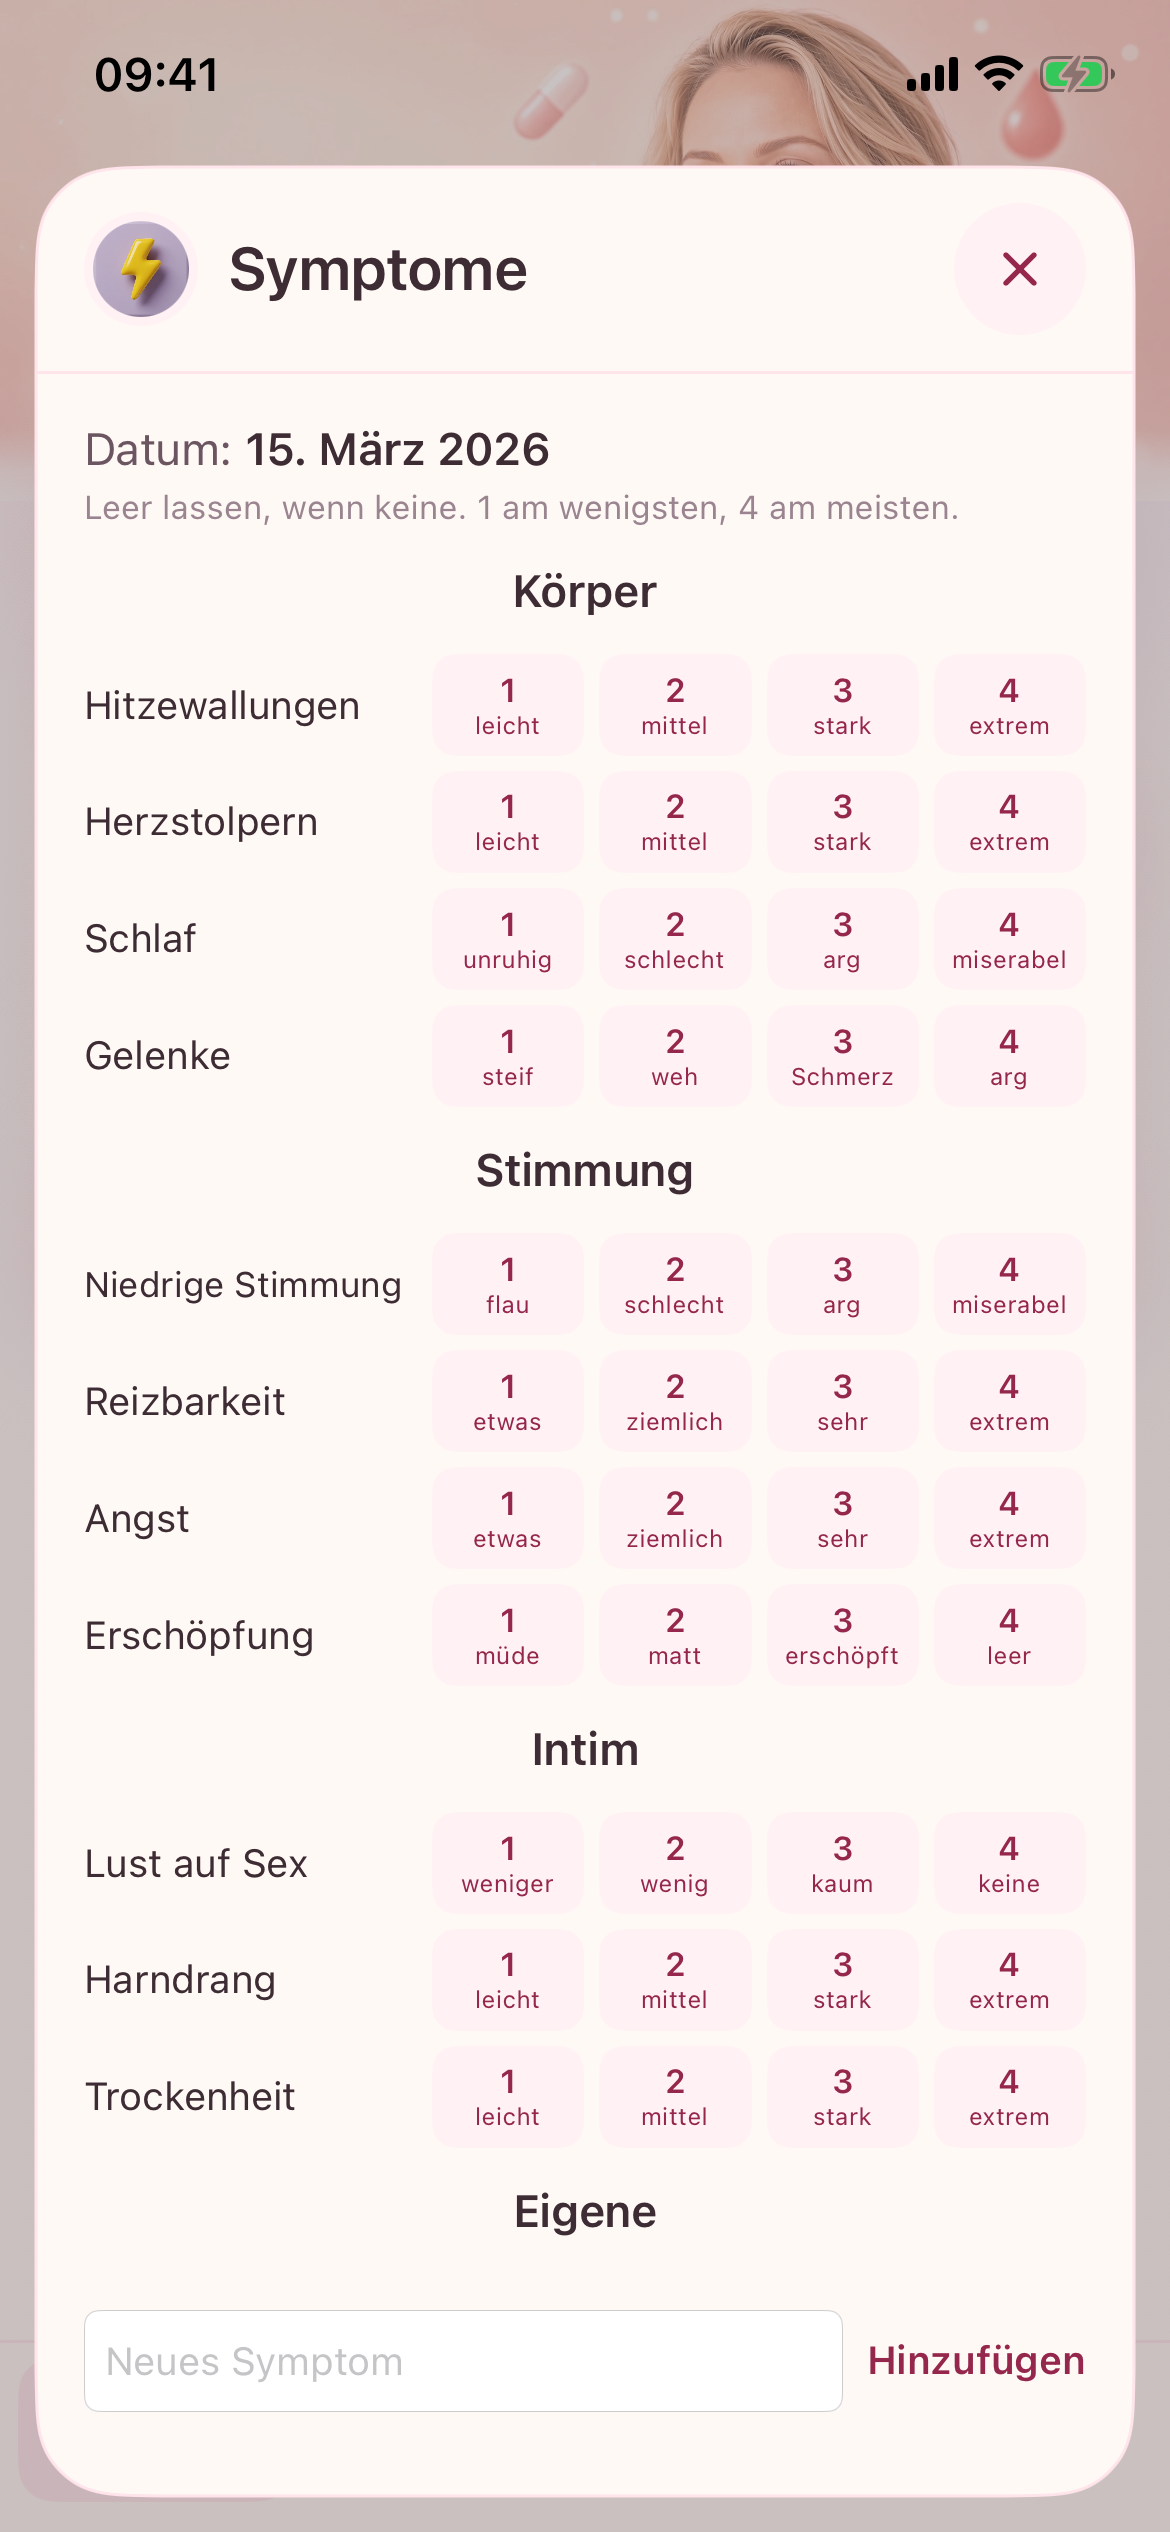
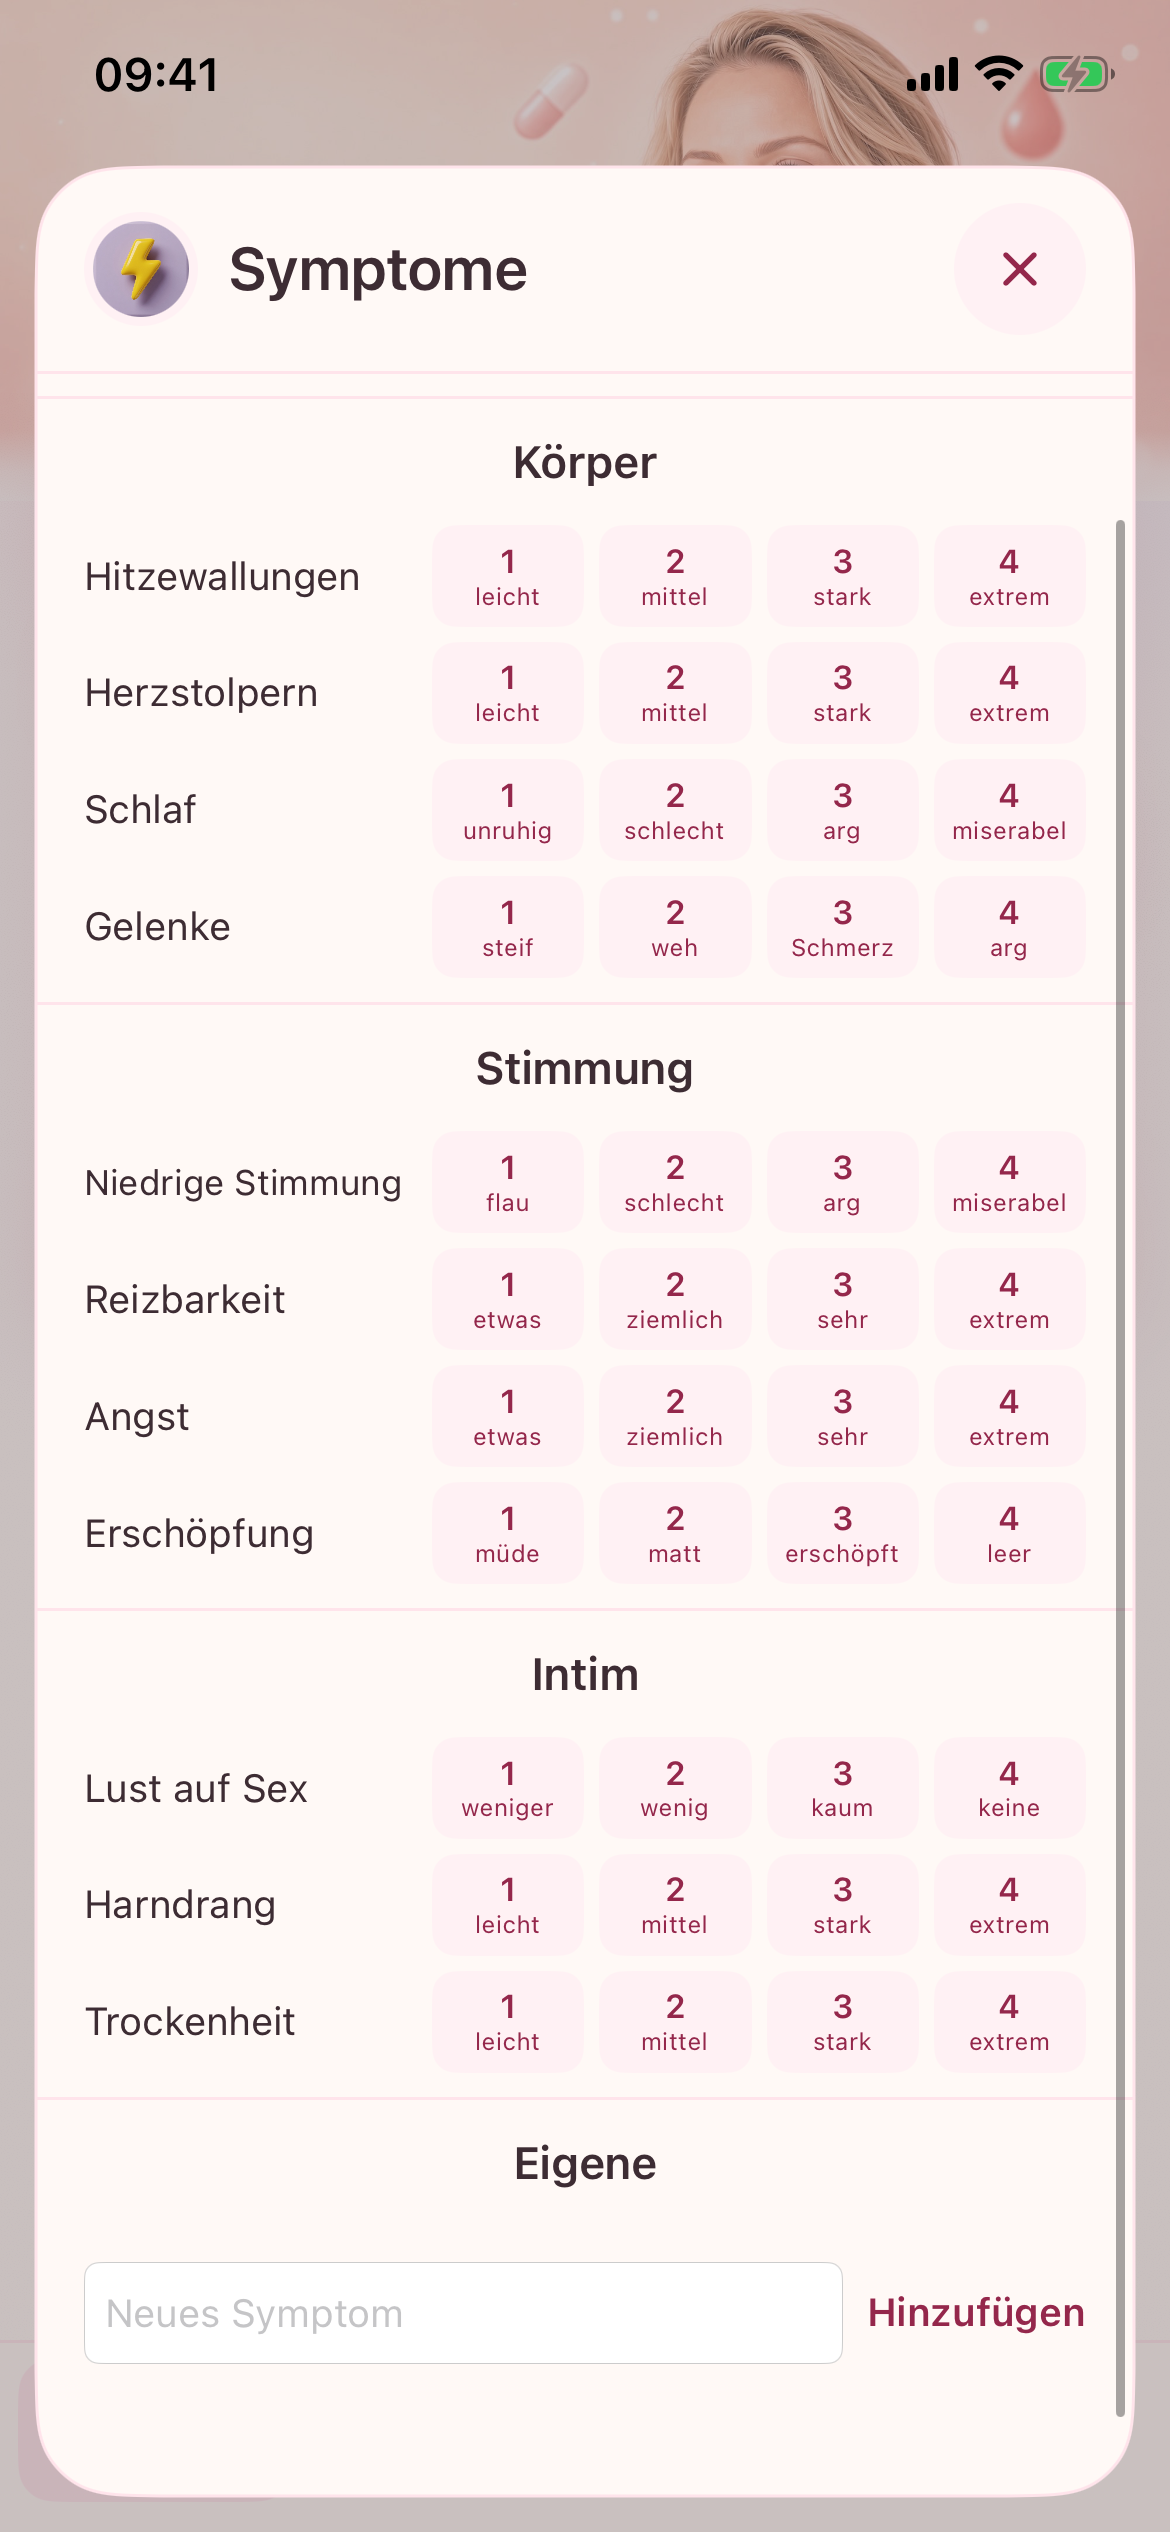
fix(symptoms): rule off each symptom group
Body, Mood, Intimacy, and Custom each get the same hairline that already sits under the sheet title.

diff --git a/ios/PeriMedi/Features/Cycle/SymptomSheet.swift b/ios/PeriMedi/Features/Cycle/SymptomSheet.swift
@@ -182,11 +182,18 @@ struct SymptomSheet: View {
     }
 
     private func groupTitle(_ title: String) -> some View {
-        Text(title)
-            .font(.subheadline.weight(.semibold))
-            .foregroundStyle(Theme.ink)
-            .frame(maxWidth: .infinity)
-            .padding(.vertical, 12)
+        VStack(spacing: 0) {
+            Rectangle()
+                .fill(Theme.blush100)
+                .frame(height: 1)
+                .padding(.horizontal, -16)
+                .padding(.top, 8)
+            Text(title)
+                .font(.subheadline.weight(.semibold))
+                .foregroundStyle(Theme.ink)
+                .frame(maxWidth: .infinity)
+                .padding(.vertical, 12)
+        }
     }
 
     private func scoreRow(

diff --git a/openspec/specs/symptoms/spec.md b/openspec/specs/symptoms/spec.md
@@ -7,7 +7,7 @@ Let the user log structured symptom scores for a date (easy today, analyzable la
 ## Requirements
 
 ### Requirement: Structured log for a date
-The system SHALL present one symptom log screen for the selected date with eleven rows in three visible groups and no extra taps to reach a group: Body (Hot flushes, Heart, Sleep, Joints), Mood (Low mood, Irritability, Anxiety, Exhaustion), Intimacy (Sexual, Bladder, Dryness). German group labels SHALL be Körper, Stimmung, Intim, Heart SHALL be labeled Herzstolpern in German, Low mood SHALL be labeled Niedrige Stimmung so the group and the symptom do not share a name, Sexual SHALL be labeled Lust auf Sex, and Bladder SHALL be labeled Harndrang. Each row SHALL use a 1–4 scale in the same direction (higher is worse). Leaving a row blank SHALL mean none for that symptom. The four steps SHALL use short words that fit that symptom (for example Sleep uses restless / poor / bad / very bad, not strong). The system SHALL NOT paste official MRS questionnaire wording; symptom names SHALL be the short product names above. The log screen SHALL NOT include a free-text note on a score. After the three groups, the log screen SHALL show a Custom group (German: Eigene) with a name field whose placeholder is “New symptom” (German: “Neues Symptom”) and an Add control. At eight custom symptoms the field SHALL be disabled and the screen SHALL say “Up to 8 custom symptoms” (German: “Höchstens 8 eigene Symptome”). A name longer than 40 characters SHALL be refused with “Up to 40 characters” (German: “Höchstens 40 Zeichen”). Each custom row SHALL offer Rename (German: Umbenennen). Delete SHALL ask “Delete {{name}} and all its past scores?” (German: “{{name}} und alle bisherigen Werte löschen?”) and the confirm button SHALL stay Delete (German: Löschen). A saved custom symptom SHALL appear under that headline and SHALL use the same 1–4 scale. The name field SHALL sit below those rows. Custom steps SHALL use one shared set of words (English mild / mid / strong / intense, German leicht / mittel / stark / extrem). The user MAY keep at most eight custom symptoms by adding. A name SHALL be at most 40 characters, SHALL NOT be blank, and SHALL NOT repeat another custom name when compared without regard to case. The typed name SHALL NOT be translated. Rename SHALL keep the same id so past scores stay attached and SHALL show the new name. Delete SHALL ask for confirmation, then remove that custom symptom and every score with its id on every date. Other symptoms on those dates SHALL stay. The eleven default rows SHALL stay in the same order.
+The system SHALL present one symptom log screen for the selected date with eleven rows in three visible groups and no extra taps to reach a group: Body (Hot flushes, Heart, Sleep, Joints), Mood (Low mood, Irritability, Anxiety, Exhaustion), Intimacy (Sexual, Bladder, Dryness). German group labels SHALL be Körper, Stimmung, Intim, Heart SHALL be labeled Herzstolpern in German, Low mood SHALL be labeled Niedrige Stimmung so the group and the symptom do not share a name, Sexual SHALL be labeled Lust auf Sex, and Bladder SHALL be labeled Harndrang. Each row SHALL use a 1–4 scale in the same direction (higher is worse). Leaving a row blank SHALL mean none for that symptom. The four steps SHALL use short words that fit that symptom (for example Sleep uses restless / poor / bad / very bad, not strong). The system SHALL NOT paste official MRS questionnaire wording; symptom names SHALL be the short product names above. The log screen SHALL NOT include a free-text note on a score. After the three groups, the log screen SHALL show a Custom group (German: Eigene) with a name field whose placeholder is “New symptom” (German: “Neues Symptom”) and an Add control. At eight custom symptoms the field SHALL be disabled and the screen SHALL say “Up to 8 custom symptoms” (German: “Höchstens 8 eigene Symptome”). A name longer than 40 characters SHALL be refused with “Up to 40 characters” (German: “Höchstens 40 Zeichen”). Each custom row SHALL offer Rename (German: Umbenennen). Delete SHALL ask “Delete {{name}} and all its past scores?” (German: “{{name}} und alle bisherigen Werte löschen?”) and the confirm button SHALL stay Delete (German: Löschen). A saved custom symptom SHALL appear under that headline and SHALL use the same 1–4 scale. The name field SHALL sit below those rows. Each group headline SHALL have the same hairline above it as the line under the sheet title. Custom steps SHALL use one shared set of words (English mild / mid / strong / intense, German leicht / mittel / stark / extrem). The user MAY keep at most eight custom symptoms by adding. A name SHALL be at most 40 characters, SHALL NOT be blank, and SHALL NOT repeat another custom name when compared without regard to case. The typed name SHALL NOT be translated. Rename SHALL keep the same id so past scores stay attached and SHALL show the new name. Delete SHALL ask for confirmation, then remove that custom symptom and every score with its id on every date. Other symptoms on those dates SHALL stay. The eleven default rows SHALL stay in the same order.
 
 #### Scenario: Open log from day card
 - **WHEN** the user activates + Symptom for the selected date
